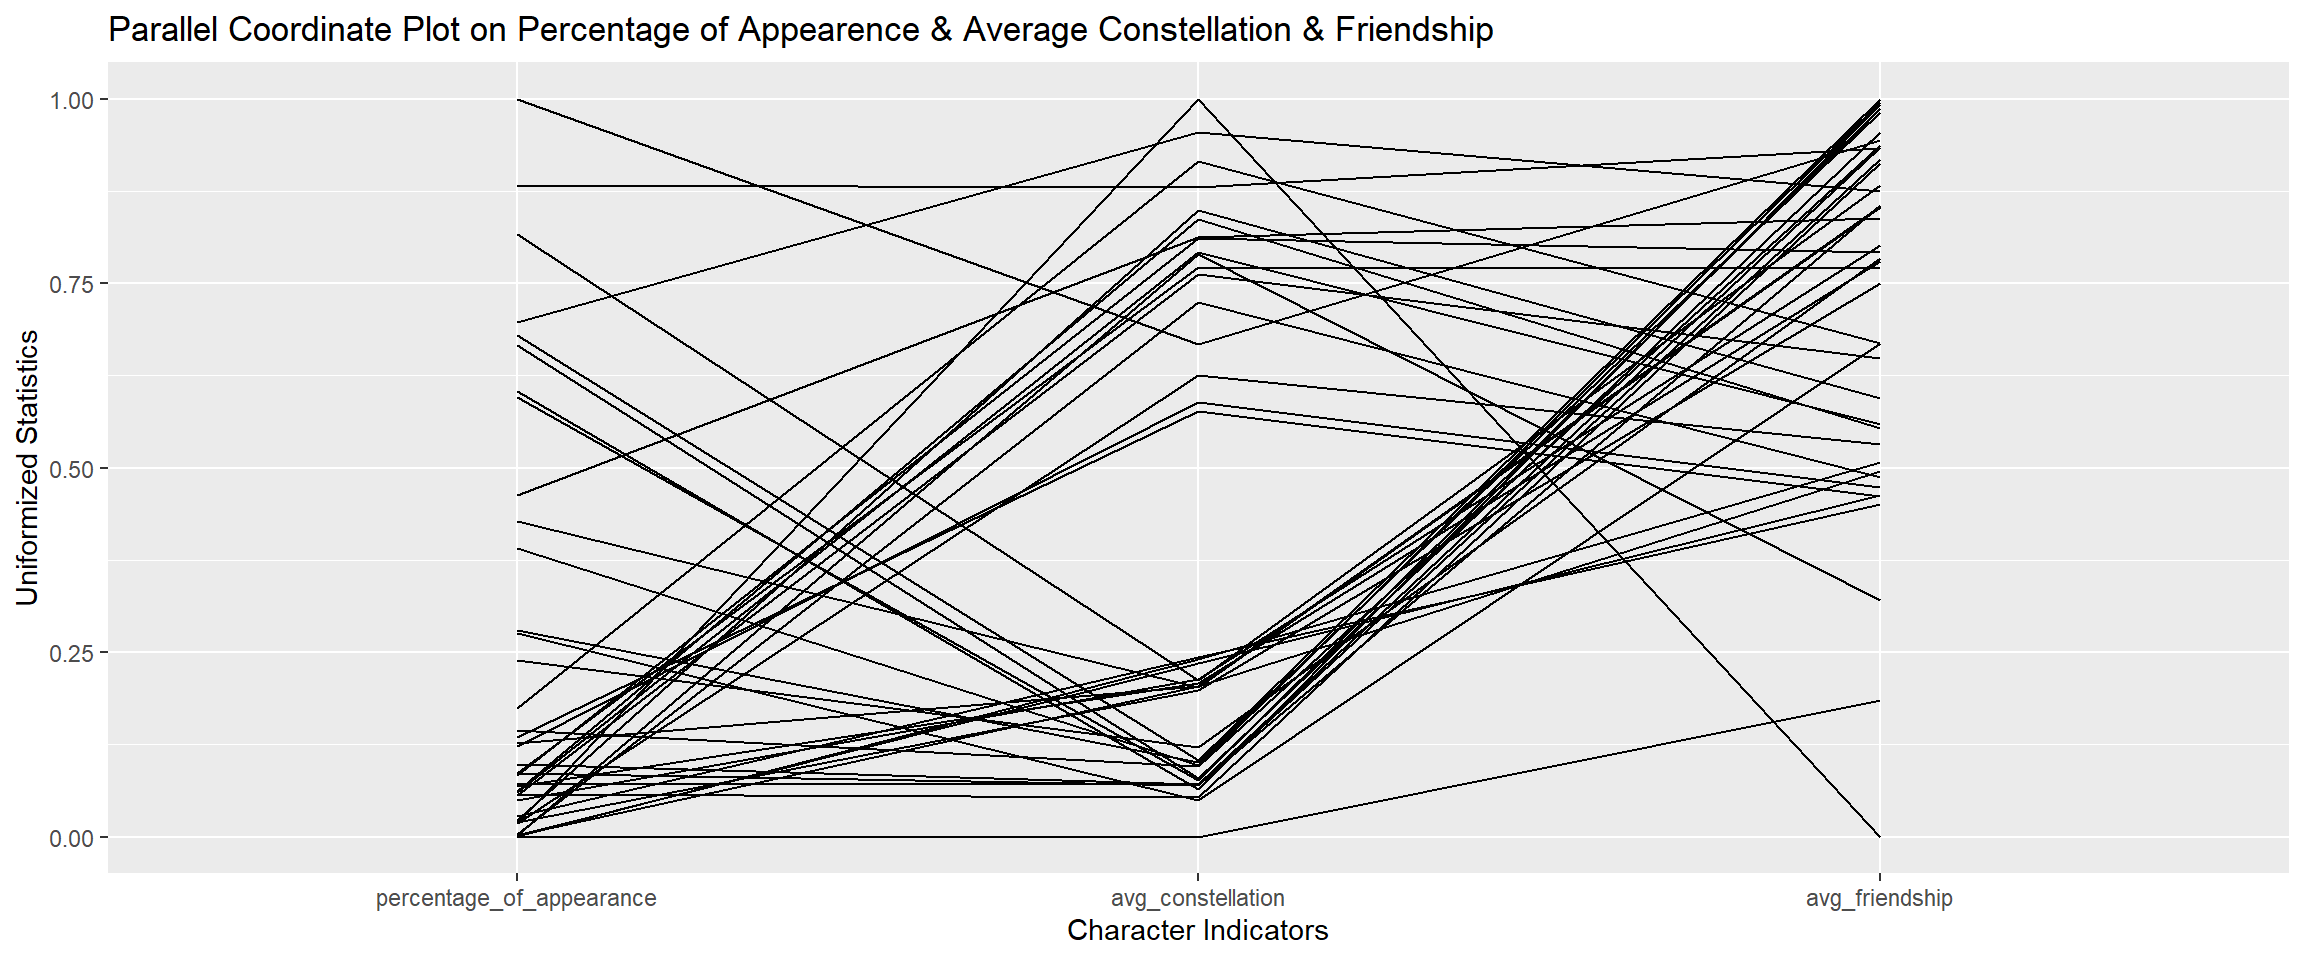
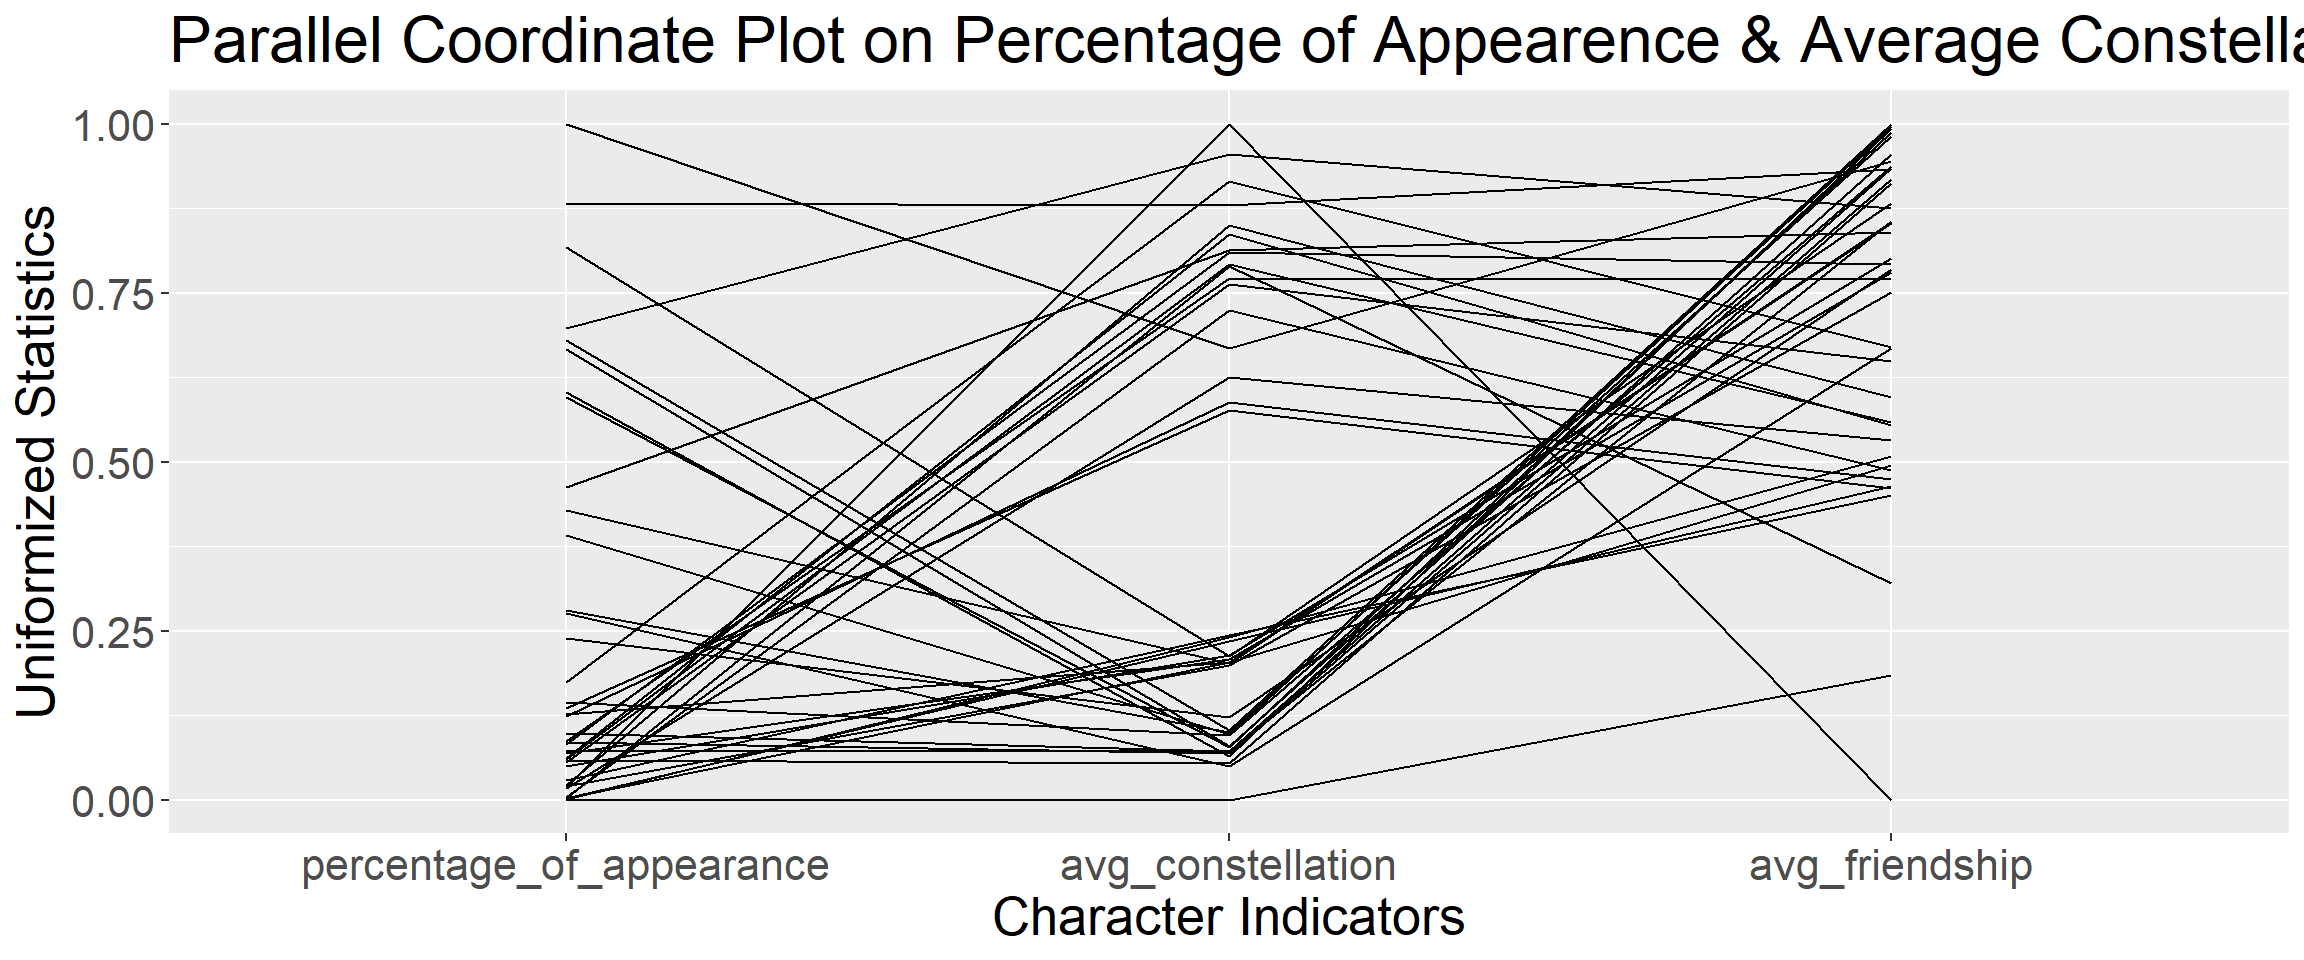
Modified Fonts and Added Description

diff --git a/docs/results.html b/docs/results.html
@@ -24,7 +24,7 @@
 <meta name="author" content="Zhifeng Zhang and Ruilin Liu" />
 
 
-<meta name="date" content="2021-12-12" />
+<meta name="date" content="2021-12-13" />
 
   <meta name="viewport" content="width=device-width, initial-scale=1" />
   <meta name="apple-mobile-web-app-capable" content="yes" />
@@ -166,9 +166,14 @@ code span.wa { color: #60a0b0; font-weight: bold; font-style: italic; } /* Warni
 <div id="results" class="section level1" number="5">
 <h1><span class="header-section-number">Chapter 5</span> Results</h1>
 <p><img src="finalproj_files/figure-html/unnamed-chunk-14-1.png" width="672" /></p>
+<p>The above Cleveland Dot Plot illustrates the percentage of appearance in the Abyss for each character. Also, the color illustrates how the rates change from Late September to Early November. From the plot, we can observe that popular characters such as Bennett, Xingqiu and Raiden Shogun (at the top of the plot) have been keeping high appearance rates, while characters like Aloy, Amber and Xinyan (at the bottom of the plot) are generally rare in the Abyss mode. The percentages for each character are unlikely to change by much from month to month, but there are some exceptions like Xiangling whose appearance percentages keep increasing from Late September to Early November.</p>
 <p><img src="finalproj_files/figure-html/unnamed-chunk-16-1.png" width="1440" /></p>
+<p>This is a scatter plot of Percentage of Appearance versus Average Constellation of each character. Since Constellation costs resources, Average Constellation can indicate how many resources players spend on enhancing each character on average. We can observe that game characters are generally located at the four corners, which means that they can be divided into 4 categories.
+Bottom left corner are characters who players are not likely to spend resources in enhancing them and do not often appear in the Abyss. Bottom right corner are characters who players would generally spend resources in enhancing them but do not often use them in the Abyss. Top left corner are characters who many players use them in the Abyss without spending excessive resources on them (so they are “strong”). Top right corner are characters who appear frequently in the Abyss but players have spent many resources enhancing them.</p>
 <p><img src="finalproj_files/figure-html/unnamed-chunk-17-1.png" width="1152" /></p>
+<p>In this parallel coordinate plot on percentage of appearance in the Abyss, average constellation and average friendship, each character is represented by a line. There is a trend that characters with high percentage of appearance and low average constellation have high average friendship. This means that players generally like those characters (indicated by high friendship) who are strong enough to appear frequently in the Abyss without requiring too many resources (indicated by low constellation).</p>
 <p><img src="finalproj_files/figure-html/unnamed-chunk-18-1.png" width="1440" /></p>
+<p>This boxplot shows the distribution of character levels for each character. We can observe that more than 50% of players have levelled up characters like Zhongli, Xiao, Raiden Shogun and Kamisato Ayaka to the maximum level. Notice that those characters at the top are generally characters with high Abyss Appearance Rate as indicated by previous graphs. On the other hand, most players do not level up Lisa, Amber, Xinyan and Aloy very much. Notice that they are the ones who players are not likely to use in the Abyss.</p>
 
 </div>
             </section>

diff --git a/docs/interactive-component.html b/docs/interactive-component.html
@@ -24,7 +24,7 @@
 <meta name="author" content="Zhifeng Zhang and Ruilin Liu" />
 
 
-<meta name="date" content="2021-12-12" />
+<meta name="date" content="2021-12-13" />
 
   <meta name="viewport" content="width=device-width, initial-scale=1" />
   <meta name="apple-mobile-web-app-capable" content="yes" />
@@ -231,9 +231,9 @@ code span.wa { color: #60a0b0; font-weight: bold; font-style: italic; } /* Warni
     .attr("class", "y label")
     .attr("text-anchor", "end")
     .attr("y", 5)
-    .attr("dy", ".75em")
+    .attr("dy", ".5em")
     .attr("transform", "rotate(-90)")
-    .text("Character Appearance Rate in Abyss");
+    .text("Percentage of Appearance in Abyss");
 
           var rowConverter = function (d) {
                 if (!isNaN(d.rate) && !isNaN(d.rate)) {
@@ -300,6 +300,8 @@ code span.wa { color: #60a0b0; font-weight: bold; font-style: italic; } /* Warni
                     svg.select("text#nm").text("Error loading data.")
                     });
         </script>
+<p>This is an interactive scatter plot on Percentage of Appearance in the Abyss versus Character Owning Rate. The definition of Percentage of Appearance is the same as in previous plots – number of Abyss challenges that players choose to use this character divided by total number of challenges players make. The definition of Character Owning Rate is how much percent of players own this character.</p>
+<p>Each point is one character. Points closer to the top are characters who appear more frequently in Abyss, and points closer to the right are characters who are owned by many players. By moving the mouse onto a point, the name of that character is shown.</p>
 
 </div>
             </section>

diff --git a/docs/index.html b/docs/index.html
@@ -24,7 +24,7 @@
 <meta name="author" content="Zhifeng Zhang and Ruilin Liu" />
 
 
-<meta name="date" content="2021-12-12" />
+<meta name="date" content="2021-12-13" />
 
   <meta name="viewport" content="width=device-width, initial-scale=1" />
   <meta name="apple-mobile-web-app-capable" content="yes" />
@@ -166,7 +166,7 @@ code span.wa { color: #60a0b0; font-weight: bold; font-style: italic; } /* Warni
 <div id="header">
 <h1 class="title">Analysis of Game Character Strengths in Genshin Impact</h1>
 <p class="author"><em>Zhifeng Zhang and Ruilin Liu</em></p>
-<p class="date"><em>2021-12-12</em></p>
+<p class="date"><em>2021-12-13</em></p>
 </div>
 <div id="introduction" class="section level1" number="1">
 <h1><span class="header-section-number">Chapter 1</span> Introduction</h1>

diff --git a/docs/404.html b/docs/404.html
@@ -24,7 +24,7 @@
 <meta name="author" content="Zhifeng Zhang and Ruilin Liu" />
 
 
-<meta name="date" content="2021-12-12" />
+<meta name="date" content="2021-12-13" />
 
   <meta name="viewport" content="width=device-width, initial-scale=1" />
   <meta name="apple-mobile-web-app-capable" content="yes" />

diff --git a/docs/conclusion.html b/docs/conclusion.html
@@ -24,7 +24,7 @@
 <meta name="author" content="Zhifeng Zhang and Ruilin Liu" />
 
 
-<meta name="date" content="2021-12-12" />
+<meta name="date" content="2021-12-13" />
 
   <meta name="viewport" content="width=device-width, initial-scale=1" />
   <meta name="apple-mobile-web-app-capable" content="yes" />

diff --git a/docs/data-sources.html b/docs/data-sources.html
@@ -24,7 +24,7 @@
 <meta name="author" content="Zhifeng Zhang and Ruilin Liu" />
 
 
-<meta name="date" content="2021-12-12" />
+<meta name="date" content="2021-12-13" />
 
   <meta name="viewport" content="width=device-width, initial-scale=1" />
   <meta name="apple-mobile-web-app-capable" content="yes" />

diff --git a/docs/data-transformation.html b/docs/data-transformation.html
@@ -24,7 +24,7 @@
 <meta name="author" content="Zhifeng Zhang and Ruilin Liu" />
 
 
-<meta name="date" content="2021-12-12" />
+<meta name="date" content="2021-12-13" />
 
   <meta name="viewport" content="width=device-width, initial-scale=1" />
   <meta name="apple-mobile-web-app-capable" content="yes" />

diff --git a/docs/missing-values.html b/docs/missing-values.html
@@ -24,7 +24,7 @@
 <meta name="author" content="Zhifeng Zhang and Ruilin Liu" />
 
 
-<meta name="date" content="2021-12-12" />
+<meta name="date" content="2021-12-13" />
 
   <meta name="viewport" content="width=device-width, initial-scale=1" />
   <meta name="apple-mobile-web-app-capable" content="yes" />
